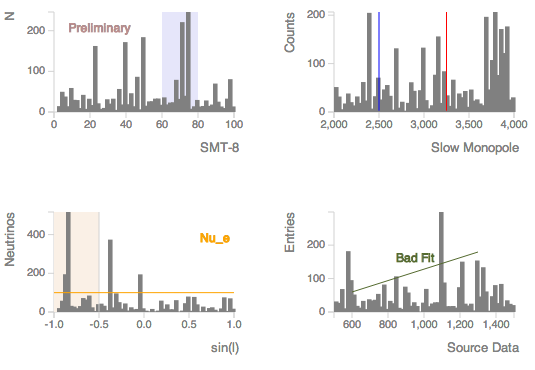
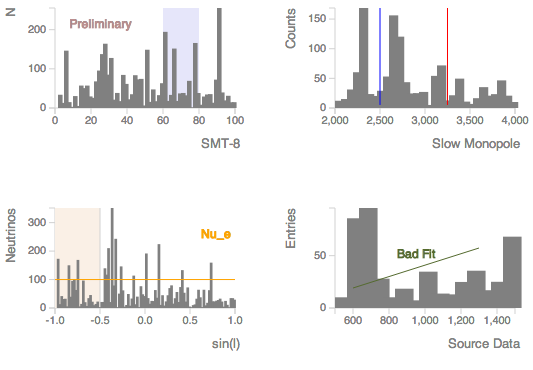
Tweak example plots

diff --git a/example.html b/example.html
@@ -18,11 +18,11 @@
 var h = 200,
     w = 280;
 
-function testdata() {
-    return d3.range(60).map(d3.random.logNormal(Math.log(30)));
+function testdata(n) {
+    return d3.range(n).map(d3.random.logNormal(Math.log(30)));
 }
 
-var data = testdata();
+var data = testdata(60);
 bars({data: [data],
       div: "plot1",
       size: [w, h],
@@ -34,7 +34,7 @@ bars({data: [data],
                        color: "rosybrown"}}],
 });
 
-bars({data: [testdata()],
+bars({data: [testdata(30)],
       div: "plot2",
       size: [w, h],
       xlabel: "Slow Monopole",
@@ -44,7 +44,7 @@ bars({data: [testdata()],
                {vbar: {pos: 3250, color: "red"}}],
 });
 
-bars({data: [testdata()],
+bars({data: [testdata(100)],
       div: "plot3",
       size: [w, h],
       xlabel: "sin(l)",
@@ -57,7 +57,7 @@ bars({data: [testdata()],
                        color: "orange", units: "pixels"}}],
 });
 
-data = testdata();
+data = testdata(15);
 bars({data: [data],
       div: "plot4",
       size: [w, h],
